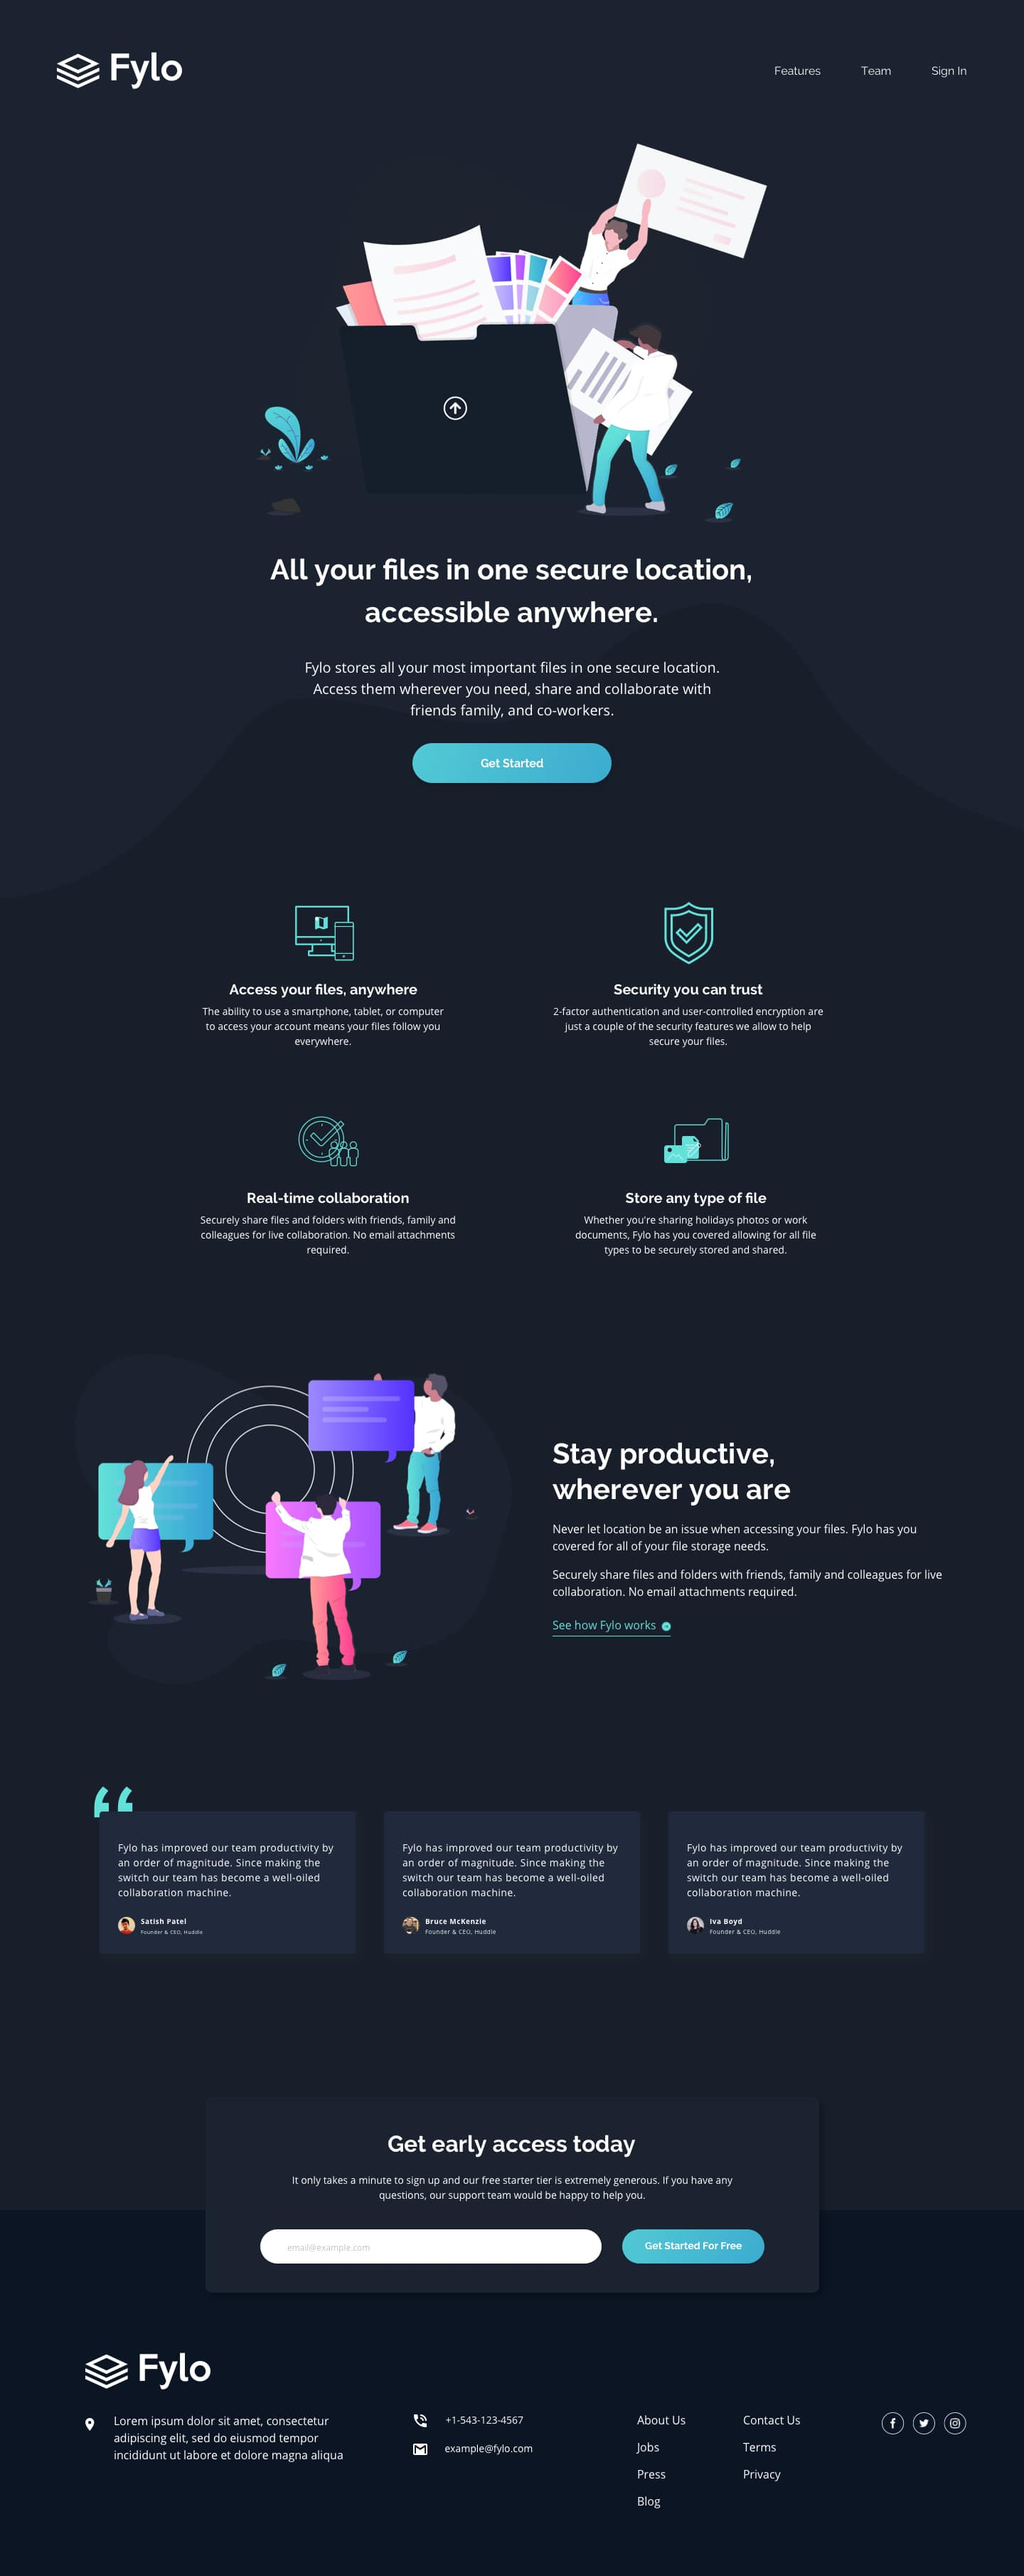
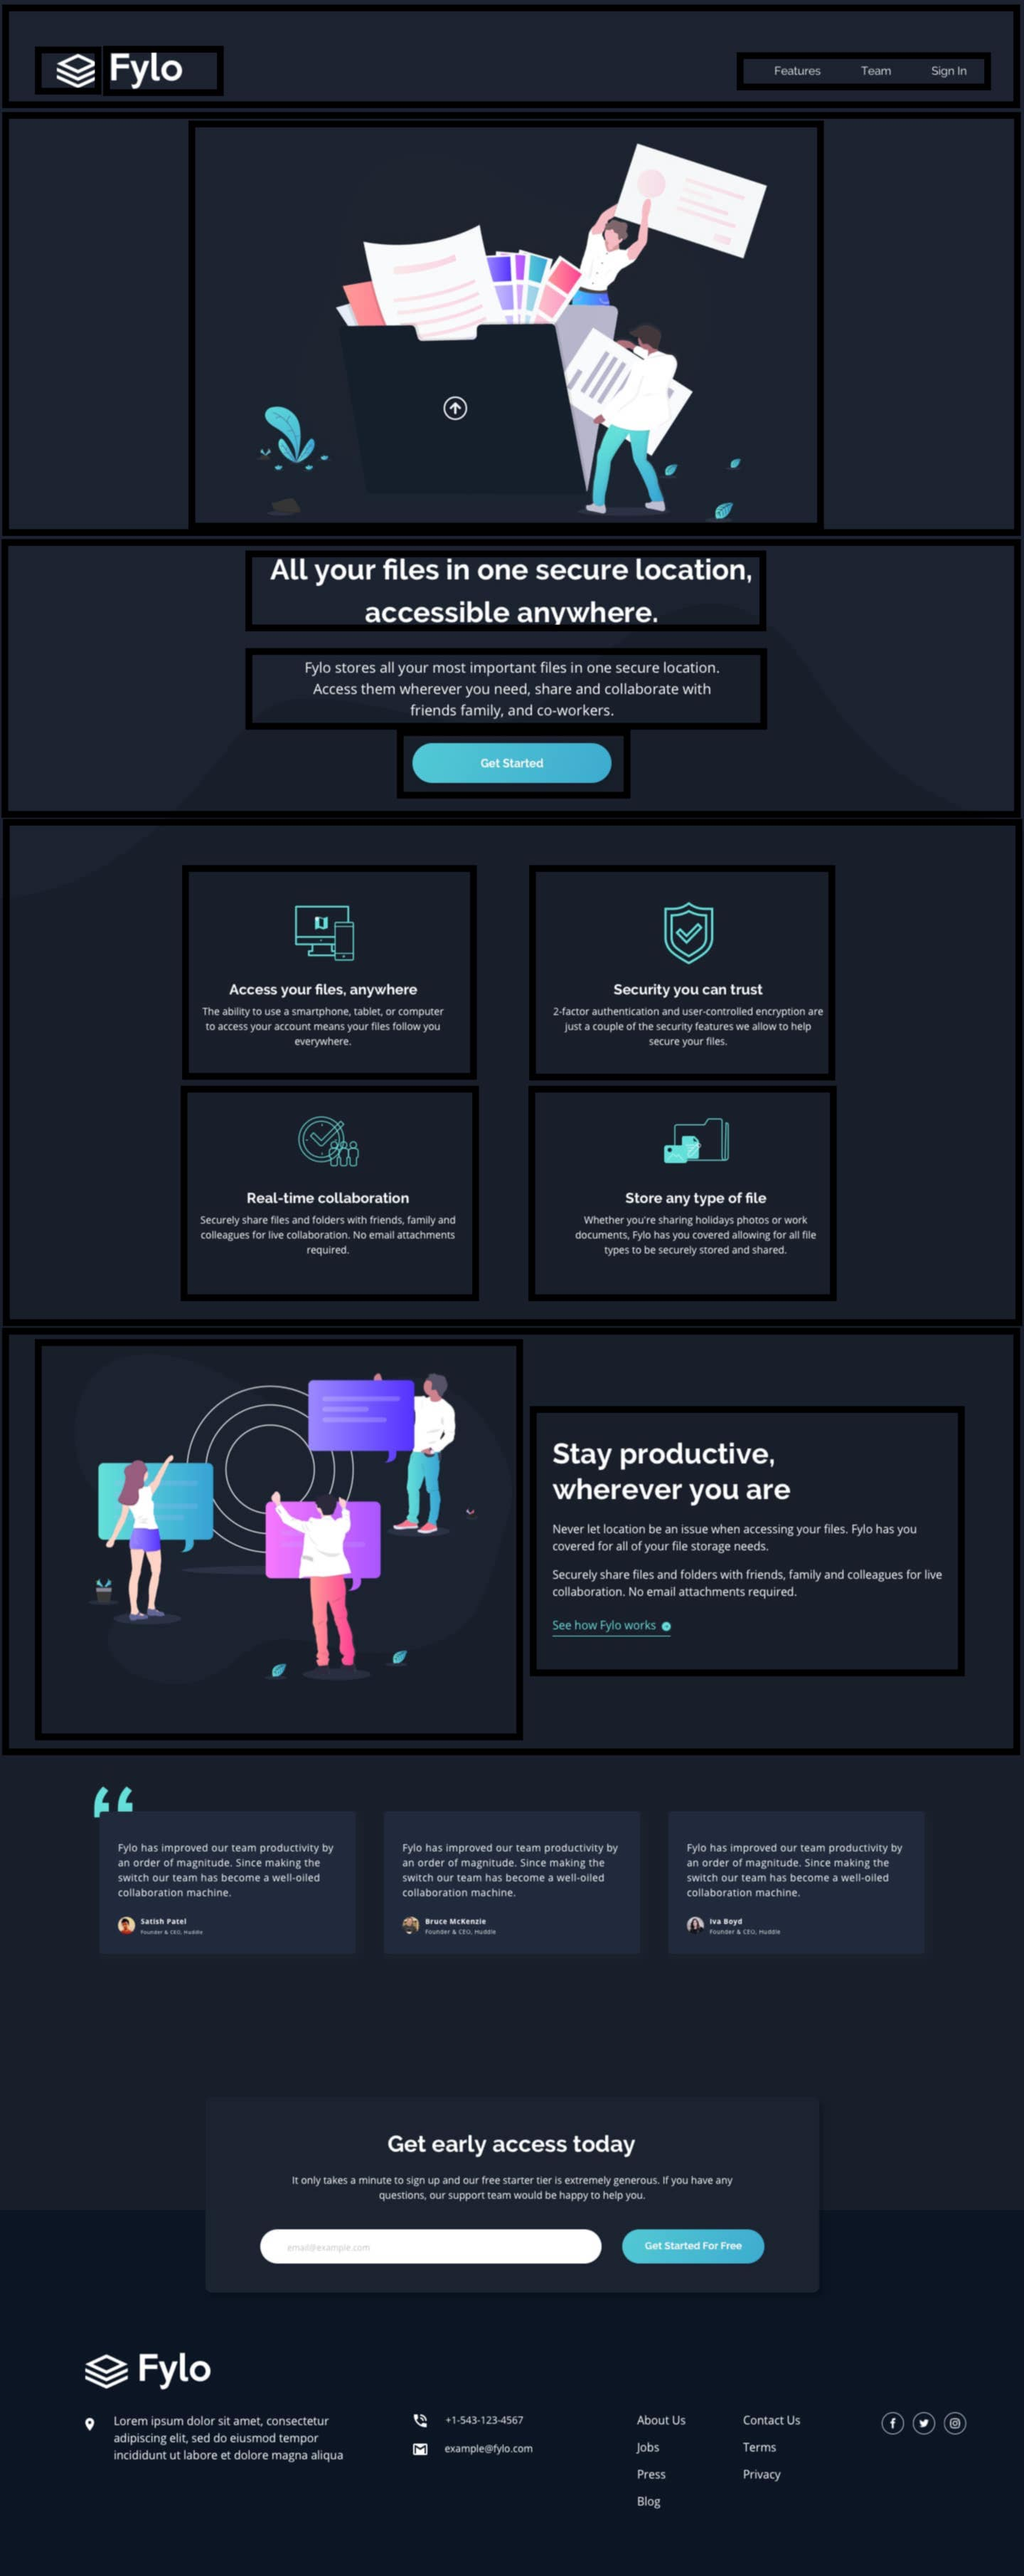
Added intro structure

diff --git a/index.html b/index.html
@@ -5,6 +5,8 @@
   <meta name="viewport" content="width=device-width, initial-scale=1.0"> <!-- displays site properly based on user's device -->
   <meta name="author" content="TLanette Pollard">
 
+  <!--Author Styles-->
+  <link rel="stylesheet" href="css/mainstyle.css">
   <link rel="icon" type="image/png" sizes="32x32" href="./images/favicon-32x32.png">
   
   <title>Frontend Mentor | Fylo landing page with dark theme and features grid</title>
@@ -15,16 +17,40 @@
   </style>
 </head>
 <body>
-  Features
-  Team
-  Sign In
+  <header>
+    <div id="logo">
+      <img src="images/logo.svg">
+      <h2>Fylo</h2>
+    </div>
+    <nav>
+      <ul>
+        <li><a href="#">Features</a></li>
+        <li><a href="#">Team</a></li>
+        <li><a href="#">Sign In</a></li>
+      </ul> 
+    </nav>
+  </header>
+  <!--Begin page's main content-->
+  <main>
+    <!--Company Intro Area-->
+    <section id="intro">
+      <img src="images/illustration-intro.png">
+    </section>
+    <section id="tag_area">
+      <h3 id="tag_line">All your files in one secure location, accessible anywhere.</h3>
+      <p id="tag_summary">Fylo stores all your most important files in one secure location. Access them wherever
+      you need, share and collaborate with friends family, and co-workers.</p>
+      <button type="submit">Get Started</button>
+    </section>
 
-  All your files in one secure location, accessible anywhere.
+  </main>
+  
 
-  Fylo stores all your most important files in one secure location. Access them wherever 
-  you need, share and collaborate with friends family, and co-workers.
+  
 
-  Get Started
+  
+
+  
 
   Access your files, anywhere
 
@@ -96,7 +122,7 @@
   Terms
   Privacy
 
-  <footer>
+  <footer id="footer">
     <p class="attribution">
       Challenge by <a href="https://www.frontendmentor.io?ref=challenge" target="_blank">Frontend Mentor</a>. 
       Coded by <a href="#">T.Lanette Pollard</a>.

diff --git a/css/mainstyle.css b/css/mainstyle.css
@@ -1,6 +1,6 @@
 
 * {
-    outline: 1px solid black;
+    outline: 1px solid black !important;
     box-sizing: border-box;
 }
 
